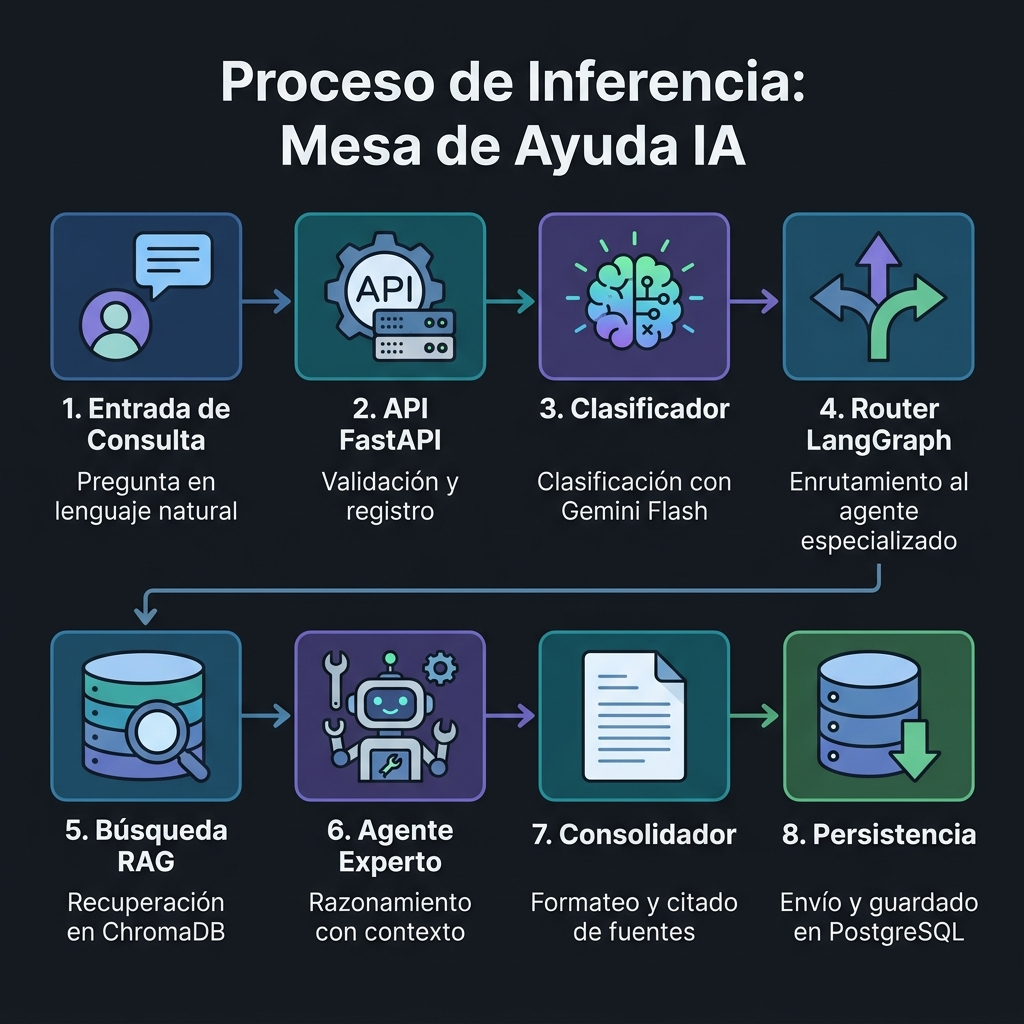
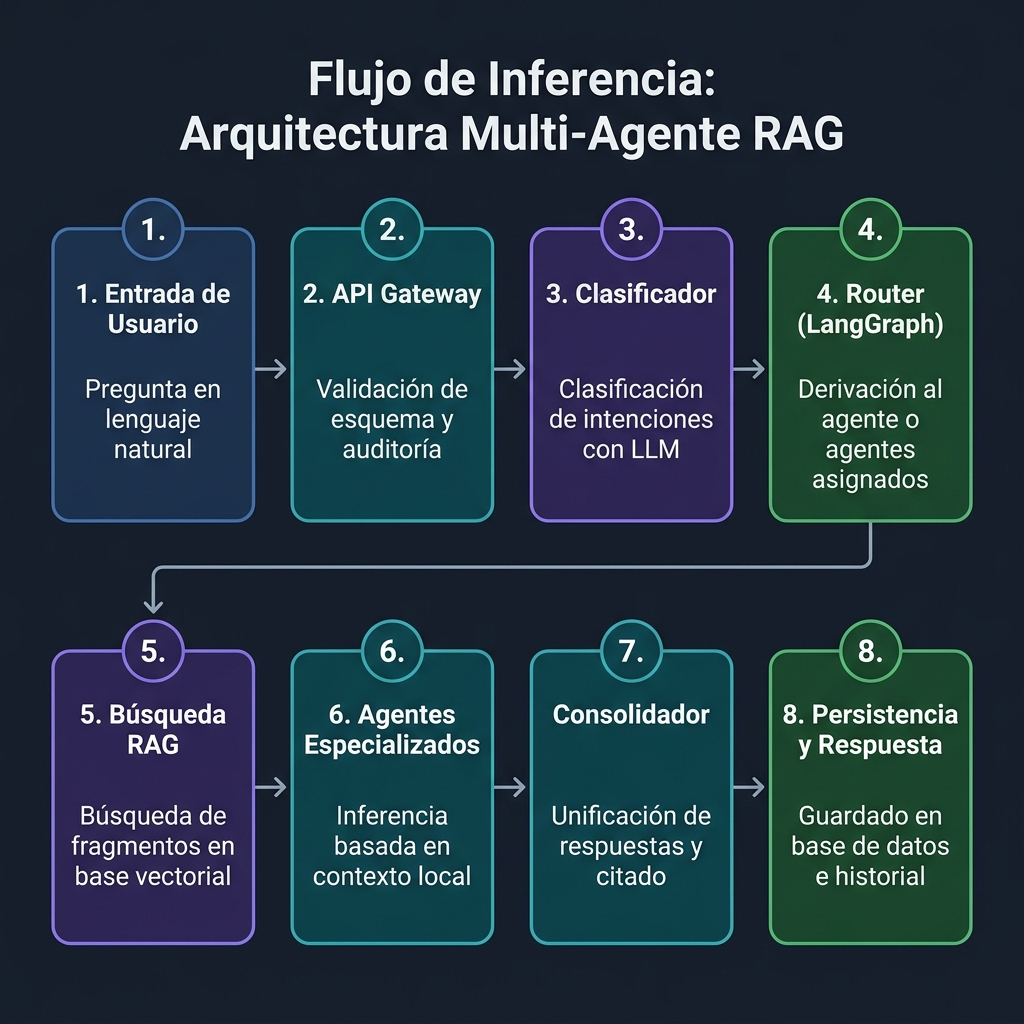
Cambios en el readme

diff --git a/README.md b/README.md
@@ -81,9 +81,9 @@ graph TD
 
 ### Flujo de Inferencia Paso a Paso
 
-A continuación se presenta el flujo detallado de inferencia y procesamiento secuencial de una consulta dentro del sistema de mesa de ayuda técnica:
+A continuación se presenta el flujo detallado de inferencia y procesamiento secuencial de una consulta dentro de la arquitectura de agentes RAG del proyecto:
 
-![Proceso de Inferencia: Mesa de Ayuda IA](docs/images/pipeline_infographic.png)
+![Flujo de Inferencia: Arquitectura Multi-Agente RAG](docs/images/pipeline_infographic.png)
 
 ---
 